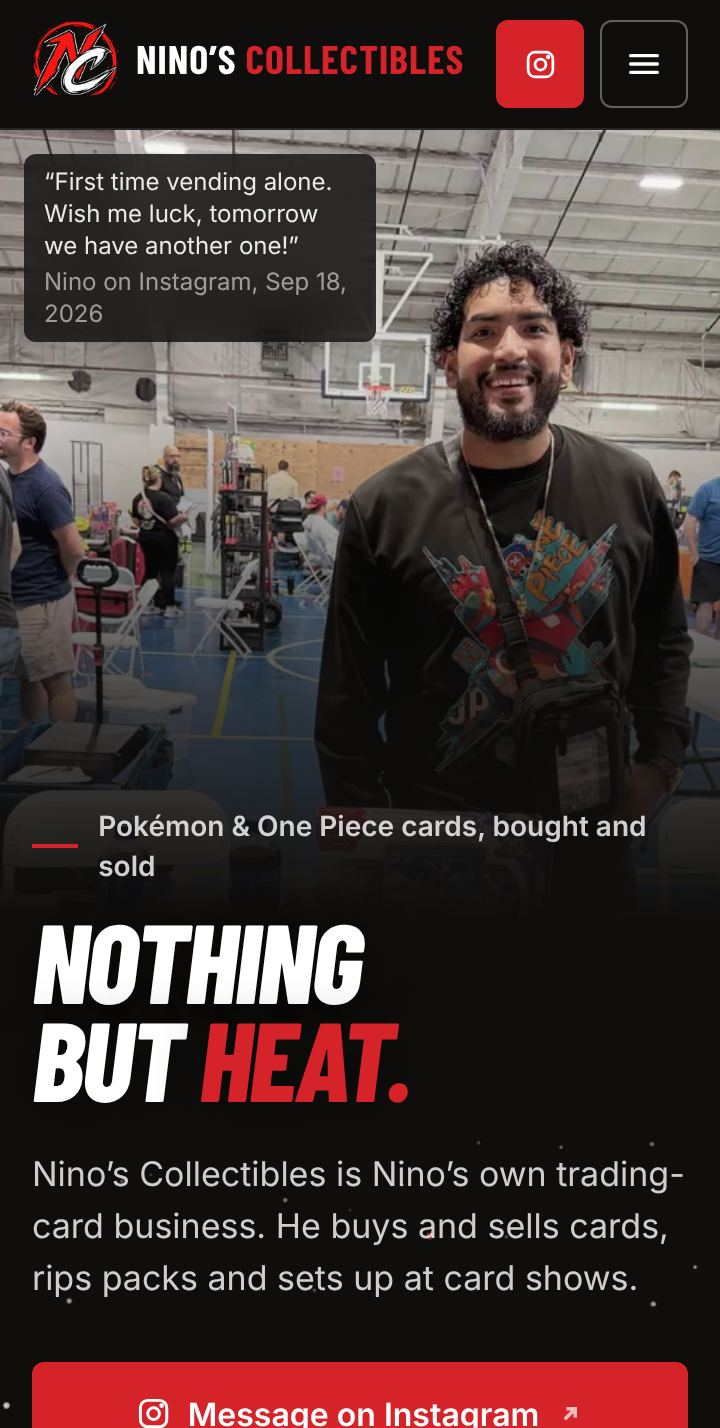
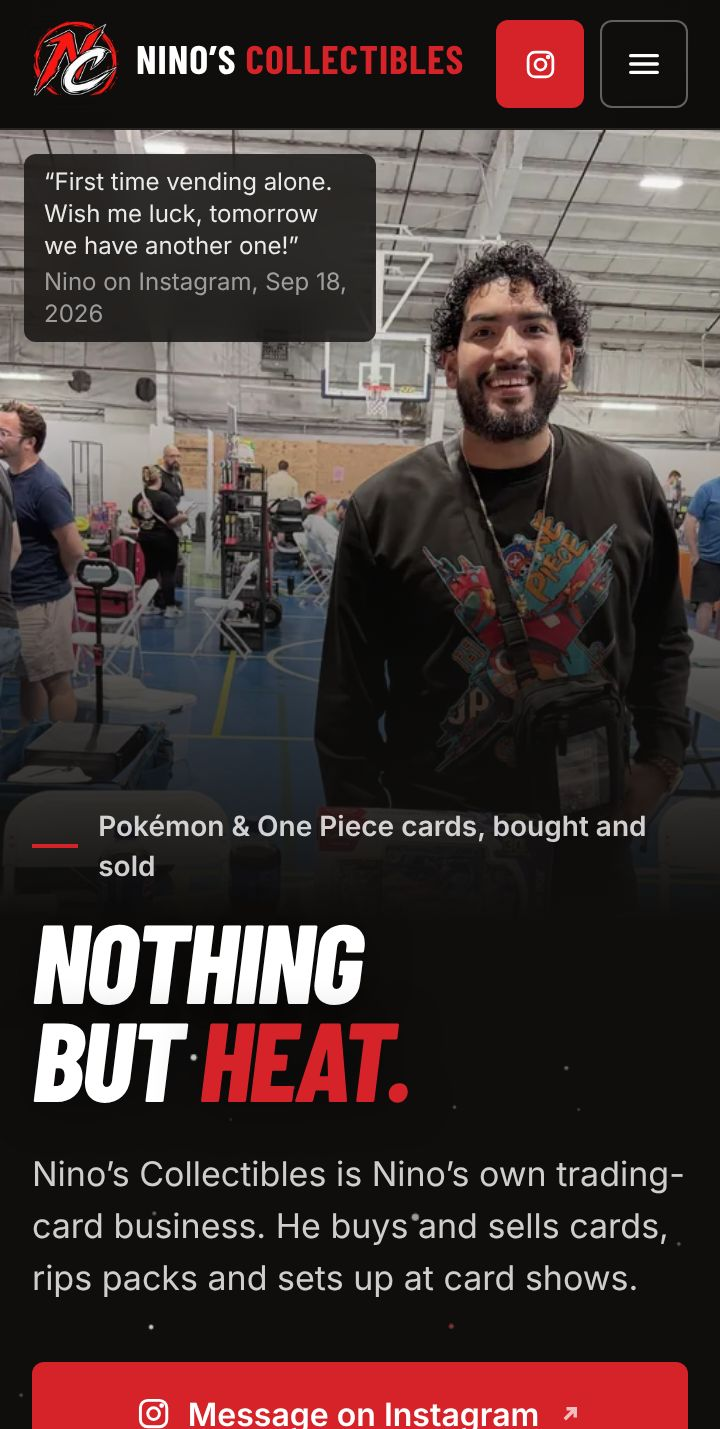
Add Nino's Collectibles as a sixth live client
Nino is now listed the same way as the other shops: phone rail, proof
deck, ledger, Card and tabletop filter and case study, with a fresh
720x1429 phone capture of ninoscollectibles.com. The separate "In
progress" block is removed.

The case study keeps its dated "Where it stands" lines, because live
pricing, Square and the show list are not yet working on his site.

Counts and copy move from five to six. /work joins CHANGED_SEO since its
description and JSON-LD now differ from the certified page. The rail
shares the row on desktop so six phones fit from 900px up.

Claude-Session: https://claude.ai/code/session_01N3ZjKZC4ZgSLS7pb9vG9zZ

diff --git a/nitro/src/lib/work.ts b/nitro/src/lib/work.ts
@@ -1,7 +1,9 @@
 /**
  * Approved portfolio taxonomy, from the certified site (work/index.html, generate-seo-pages.mjs,
  * homepage filters):
- *   - Five live client projects. Filters: "Card and tabletop" (4) and "Retail and local" (1).
+ *   - Six live client projects. Filters: "Card and tabletop" (5) and "Retail and local" (1). Nino’s Collectibles
+ *     was added 2026-10-11 with Nino’s approval (reported by Nick); its case study carries dated status lines
+ *     because parts of that site (live pricing, Square, show list) are not yet working in production.
  *   - One FORGE lab experiment (Voidcaller), always shown apart from client work and never counted as a client.
  * Case-study copy is limited to the documented need, build, tags and location. No outcomes or metrics.
  */
@@ -33,8 +35,7 @@ export type Project = {
   designIntent?: string;
   customerPath?: string[];
   tags: string[];
-  /** In-progress engagements only: stage label, robots override, dated status lines and a second screenshot. */
-  stage?: string;
+  /** Optional: robots override, dated status lines and a second screenshot. */
   robots?: string;
   statusCheckedOn?: string;
   status?: string[];
@@ -148,42 +149,22 @@ export const PROJECTS: Project[] = [
       "Watertown comic shop on Main Street. New comics on Wednesday, collectibles on the floor whenever the door is open — a page built so a walk-in can find the shop.",
     tags: ["Comics", "Collectibles", "Main Street"],
   },
-];
-
-export const LAB = {
-  name: "Voidcaller — On-chain metalcore",
-  kind: "FORGE experiment · Music and interactive",
-  image: "/images/work/voidcaller.jpg",
-  site: "https://voidcaller.enterthegrotto.xyz/",
-  story:
-    "A world that matches the record: player, relics, and lore. Built to prove that a project can go further when the experience itself is part of the brief.",
-  tags: ["Interactive", "Custom player", "Worldbuilding"],
-} as const;
-
-/**
- * Engagements in progress: real work for a real business that is not an approved live client launch.
- * Kept out of PROJECTS so the five-client taxonomy, counts, filters and homepage rail stay as certified.
- * Each line below was checked against the client repo and the live site on statusCheckedOn; re-check before
- * changing it. Nino approved being shown on forge-ct.com (reported by Nick, 2026-10-11).
- */
-export const IN_PROGRESS: Project[] = [
   {
     slug: "ninos-collectibles",
     name: "Nino’s Collectibles",
     short: "Nino’s Collectibles",
     filter: "card-tabletop",
-    stage: "In progress",
     category: "Trading-card dealer",
-    place: "Card shows and Instagram",
+    place: "Card shows",
     image: "/images/work/ninoscollectibles.jpg",
-    imageHeight: 1428,
+    imageHeight: 1429,
     site: "https://ninoscollectibles.com/",
     siteLabel: "ninoscollectibles.com",
     need: "Nino buys and sells Pokémon and One Piece cards at card shows, on Instagram and in Whatnot live shows. Buyers need to see what he deals in and where he is vending next; sellers need a first look at what a card might fetch before they meet him.",
     built:
       "A phone-first site built from Nino’s own Instagram posts, with a show list read from his OnTreasure profile and a card scanner for people selling to him.",
     story:
-      "A site built from Nino’s own Instagram posts, a show list read from OnTreasure, and a card scanner for sellers. Live as a concept preview.",
+      "Nino’s own Instagram posts, a show list read from his OnTreasure profile, and a card scanner for people selling to him — built for buyers and sellers who meet him at card shows.",
     designIntent:
       "Keep every claim traceable. Photos and captions come from Nino’s public posts with their dates, and past pulls are labelled as not a stock list. Show dates are read from OnTreasure, never typed in. The scanner never fills in a price, a condition or a grade: it shows an estimate only from a dated market price, the customer picks the condition, and the final offer is made in person.",
     customerPath: [
@@ -208,5 +189,15 @@ export const IN_PROGRESS: Project[] = [
   },
 ];
 
-export const projectBySlug = (slug: string) => [...PROJECTS, ...IN_PROGRESS].find((p) => p.slug === slug);
+export const LAB = {
+  name: "Voidcaller — On-chain metalcore",
+  kind: "FORGE experiment · Music and interactive",
+  image: "/images/work/voidcaller.jpg",
+  site: "https://voidcaller.enterthegrotto.xyz/",
+  story:
+    "A world that matches the record: player, relics, and lore. Built to prove that a project can go further when the experience itself is part of the brief.",
+  tags: ["Interactive", "Custom player", "Worldbuilding"],
+} as const;
+
+export const projectBySlug = (slug: string) => PROJECTS.find((p) => p.slug === slug);
 export const filterCount = (f: Filter) => PROJECTS.filter((p) => p.filter === f).length;

diff --git a/nitro/tests/critical-flows.spec.ts b/nitro/tests/critical-flows.spec.ts
@@ -165,36 +165,27 @@ test.describe("certified business-critical flows", () => {
 });
 
 test.describe("approved portfolio taxonomy", () => {
-  test("ledger lists the five live clients, filters 4 + 1, and keeps the lab apart", async ({ page }) => {
+  test("ledger lists the six live clients, filters 5 + 1, and keeps the lab apart", async ({ page }) => {
     await page.goto("/work");
     const rows = page.locator("table.ledger tbody tr");
-    await expect(rows).toHaveCount(5);
+    await expect(rows).toHaveCount(6);
     await expect(page.getByRole("button", { name: /^All/ })).toHaveAttribute("aria-pressed", "true");
     await page.getByRole("button", { name: /Card and tabletop/ }).click();
-    await expect(page.locator("table.ledger tbody tr:visible")).toHaveCount(4);
+    await expect(page.locator("table.ledger tbody tr:visible")).toHaveCount(5);
     await page.getByRole("button", { name: /Retail and local/ }).click();
     await expect(page.locator("table.ledger tbody tr:visible")).toHaveCount(1);
     await expect(page.locator("table.ledger tbody tr:visible")).toContainText("Harris in Wonderland");
     await expect(page.locator("table.ledger")).not.toContainText("Voidcaller");
     await expect(page.locator(".lab")).toContainText("not client work");
-    await expect(page.locator("table.ledger")).not.toContainText("Nino");
   });
 
-  test("the homepage shows the in-progress engagement apart from the live clients", async ({ page }) => {
+  test("Nino’s Collectibles appears like the other clients: rail, proof deck, ledger and case study", async ({ page }) => {
     await page.goto("/");
-    const wip = page.locator("#work .wip");
-    await expect(wip).toContainText("Nino’s Collectibles");
-    await expect(wip).toContainText("not counted as a live client launch");
-    await expect(page.locator("#work table.ledger tbody tr")).toHaveCount(5);
-    await expect(page.locator("#work table.ledger")).not.toContainText("Nino");
-  });
-
-  test("in-progress engagements sit apart from live clients", async ({ page }) => {
+    await expect(page.locator(".rail")).toContainText("Nino’s Collectibles");
+    await expect(page.locator("#work .proof-deck")).toContainText("Nino’s Collectibles");
+    await expect(page.locator("#work table.ledger tbody tr")).toHaveCount(6);
     await page.goto("/work");
-    const wip = page.locator(".wip");
-    await expect(wip).toContainText("Nino’s Collectibles");
-    await expect(wip).toContainText("not counted as a live client launch");
-    await wip.getByRole("link", { name: "Case study" }).click();
+    await page.locator("table.ledger").getByRole("link", { name: "Nino’s Collectibles" }).click();
     await expect(page).toHaveURL(/\/work\/ninos-collectibles$/);
     await expect(page.locator("h1")).toHaveText("Nino’s Collectibles");
     await expect(page.locator('meta[name="robots"]')).toHaveAttribute("content", "index,follow");
@@ -202,7 +193,6 @@ test.describe("approved portfolio taxonomy", () => {
       "href",
       "https://ninoscollectibles.com/",
     );
-    await expect(page.locator(".facts")).toContainText("Where it stands");
     await expect(page.locator(".facts")).toContainText("Checked 11 October 2026");
     await page.reload();
     await expect(page.locator("h1")).toHaveText("Nino’s Collectibles");
@@ -216,7 +206,6 @@ test.describe("approved portfolio taxonomy", () => {
       "https://infiniteheroes.net/",
       "https://harrisinwonderland.com/",
       "https://voidcaller.enterthegrotto.xyz/",
-      // In-progress engagement, linked from its own case study and the In progress block, never as a live client.
       "https://ninoscollectibles.com/",
     ]);
     for (const path of ROUTES) {

diff --git a/nitro/src/components/work.tsx b/nitro/src/components/work.tsx
@@ -1,7 +1,7 @@
 import { Link } from "@tanstack/react-router";
 import { useState } from "react";
 import { Arrow } from "@/components/chrome";
-import { FILTERS, IN_PROGRESS, LAB, PROJECTS, filterCount, type Filter, type Project } from "@/lib/work";
+import { FILTERS, LAB, PROJECTS, filterCount, type Filter, type Project } from "@/lib/work";
 
 export function PhoneFrame({ project, eager = false }: { project: Project; eager?: boolean }) {
   return (
@@ -25,6 +25,7 @@ const EMPHASIS: Record<string, string> = {
   "m-and-j-video-games": "Walk-in",
   "hard-hittin": "Launch",
   "infinite-heroes": "Main Street",
+  "ninos-collectibles": "Dealer",
 };
 
 /**
@@ -81,7 +82,7 @@ export function ProofDeck() {
   );
 }
 
-/** The five live client sites, as they look on the phone a customer is holding. */
+/** The live client sites, as they look on the phone a customer is holding. */
 export function PhoneRail() {
   return (
     <div className="rail-wrap">
@@ -219,42 +220,3 @@ export function LabNote() {
   );
 }
 
-/** Engagements in progress, kept apart from the approved live client work and never counted with it. */
-export function InProgressNote() {
-  if (IN_PROGRESS.length === 0) return null;
-  return (
-    <section className="wip" aria-labelledby="wip-title">
-      <h3 id="wip-title" className="index-label">
-        In progress
-      </h3>
-      {IN_PROGRESS.map((p) => (
-        <article className="wip-item" key={p.slug}>
-          <Link to="/work/$slug" params={{ slug: p.slug }} data-track={`wip_${p.slug}`}>
-            <img src={p.image} alt={`${p.name} website`} width={120} height={238} loading="lazy" decoding="async" />
-          </Link>
-          <div className="stack">
-            <p className="mono muted">
-              {p.stage} · {p.category} · not counted as a live client launch
-            </p>
-            <h4>
-              <Link to="/work/$slug" params={{ slug: p.slug }}>
-                {p.name}
-              </Link>
-            </h4>
-            <p className="muted">{p.story}</p>
-            <div className="actions">
-              <Link className="btn btn--line" to="/work/$slug" params={{ slug: p.slug }}>
-                Case study <Arrow />
-              </Link>
-              {p.site ? (
-                <a className="link" href={p.site} target="_blank" rel="noopener noreferrer" data-track={`wip_live_${p.slug}`}>
-                  Visit {p.siteLabel} <Arrow dir="out" />
-                </a>
-              ) : null}
-            </div>
-          </div>
-        </article>
-      ))}
-    </section>
-  );
-}

diff --git a/nitro/src/routes/index.tsx b/nitro/src/routes/index.tsx
@@ -3,7 +3,7 @@ import { Arrow, Plate } from "@/components/chrome";
 import { ClientNotes } from "@/components/client-notes";
 import { NextSteps } from "@/components/next-steps";
 import { PackageChooser, RateSheet, SheetNotes } from "@/components/rate-sheet";
-import { InProgressNote, LabNote, Ledger, PhoneRail, ProofDeck } from "@/components/work";
+import { LabNote, Ledger, PhoneRail, ProofDeck } from "@/components/work";
 import { pageHead } from "@/lib/seo";
 import { BUSINESS, CARE, PACKAGES, usd } from "@/lib/site";
 import { PROJECTS } from "@/lib/work";
@@ -166,14 +166,13 @@ function Home() {
           <div className="split">
             <h2 id="work-title">Real businesses. Real reasons to build.</h2>
             <p className="lede">
-              Five live client sites. The screenshot is the proof. The line under it is the documented need and the build —
+              Six live client sites. The screenshot is the proof. The line under it is the documented need and the build —
               not a result we did not measure.
             </p>
           </div>
           <ProofDeck />
           <h3 className="index-label">Index</h3>
           <Ledger headingId="work-title" />
-          <InProgressNote />
           <LabNote />
         </div>
       </section>

diff --git a/nitro/src/routes/work/index.tsx b/nitro/src/routes/work/index.tsx
@@ -1,7 +1,7 @@
 import { createFileRoute, Link } from "@tanstack/react-router";
 import { Arrow, PageHead } from "@/components/chrome";
 import { NextSteps } from "@/components/next-steps";
-import { InProgressNote, LabNote, Ledger, ProofDeck } from "@/components/work";
+import { LabNote, Ledger, ProofDeck } from "@/components/work";
 import { pageHead } from "@/lib/seo";
 import { PROJECTS } from "@/lib/work";
 
@@ -15,7 +15,7 @@ function WorkIndex() {
     <main id="main">
       <PageHead plate={["Forge CT portfolio", "Live client work", "Connecticut"]} title="Real businesses. Real reasons to build.">
         <p className="lede">
-          These are the {PROJECTS.length === 5 ? "five" : PROJECTS.length} approved Forge CT live client projects for shops and
+          These are the {PROJECTS.length === 6 ? "six" : PROJECTS.length} approved Forge CT live client projects for shops and
           local businesses. Each case study records the documented need and build, without claims that are not
           established.
         </p>
@@ -35,7 +35,6 @@ function WorkIndex() {
           <ProofDeck />
           <h3 className="index-label">Index</h3>
           <Ledger headingId="ledger-title" />
-          <InProgressNote />
           <LabNote />
         </div>
       </section>

diff --git a/nitro/src/styles.css b/nitro/src/styles.css
@@ -585,8 +585,9 @@ p {
   }
 }
 @media (min-width: 900px) {
-  /* All five phones the same size and level; captions top-aligned under them. */
+  /* All phones the same size and level, sharing the row so none falls off the edge; captions top-aligned under them. */
   .rail {
+    grid-auto-columns: minmax(0, 1fr);
     overflow: visible;
     align-items: start;
   }
@@ -897,35 +898,6 @@ p {
   width: 120px;
   border: 5px solid var(--steel-2);
   border-radius: 18px;
-}
-.wip-item {
-  display: grid;
-  gap: 1.5rem;
-  margin-top: 1rem;
-  padding: clamp(20px, 3vw, 32px);
-  border: 1.5px dashed var(--rule-strong);
-}
-@media (min-width: 760px) {
-  .wip-item {
-    grid-template-columns: 120px 1fr;
-    align-items: start;
-  }
-}
-.wip-item img {
-  width: 120px;
-  border: 5px solid var(--steel-2);
-  border-radius: 18px;
-}
-.wip-item h4 {
-  margin: 0;
-  font-family: var(--display);
-  font-size: 1.2rem;
-  font-weight: 600;
-  letter-spacing: -0.02em;
-  line-height: 1.2;
-}
-.wip-item .actions {
-  align-items: center;
 }
 
 /* ---------- rate sheet ---------- */

diff --git a/nitro/src/lib/structured-data.ts b/nitro/src/lib/structured-data.ts
@@ -964,7 +964,7 @@ export const STRUCTURED_DATA: Record<string, unknown[]> = {
       "@id": "https://www.forge-ct.com/work#webpage",
       "url": "https://www.forge-ct.com/work",
       "name": "Forge CT live client projects",
-      "description": "All five approved Forge CT live client projects for local shops and businesses.",
+      "description": "All six approved Forge CT live client projects for local shops and businesses.",
       "isPartOf": {
         "@id": "https://www.forge-ct.com/#business"
       },
@@ -993,6 +993,11 @@ export const STRUCTURED_DATA: Record<string, unknown[]> = {
           "@type": "CreativeWork",
           "name": "Infinite Heroes",
           "url": "https://www.forge-ct.com/work/infinite-heroes"
+        },
+        {
+          "@type": "CreativeWork",
+          "name": "Nino’s Collectibles",
+          "url": "https://www.forge-ct.com/work/ninos-collectibles"
         }
       ]
     }

diff --git a/nitro/src/routes/why.tsx b/nitro/src/routes/why.tsx
@@ -26,7 +26,7 @@ const FAQ: { q: string; a: React.ReactNode }[] = [
         Yes. These three featured live client shops are open right now:{" "}
         <a className="link" href="https://www.thousandsunnytcg.com/" target="_blank" rel="noopener noreferrer">Thousand Sunny</a>,{" "}
         <a className="link" href="https://mjvideogames.com/" target="_blank" rel="noopener noreferrer">M and J</a>, and{" "}
-        <a className="link" href="https://hardhittincardshop.com/" target="_blank" rel="noopener noreferrer">Hard Hittin</a>. See all five
+        <a className="link" href="https://hardhittincardshop.com/" target="_blank" rel="noopener noreferrer">Hard Hittin</a>. See all six
         approved live client projects in the <Link className="link" to="/work">Forge portfolio</Link>.
       </>
     ),

diff --git a/nitro/src/routes/work/$slug.tsx b/nitro/src/routes/work/$slug.tsx
@@ -23,13 +23,11 @@ export const Route = createFileRoute("/work/$slug")({
 function CaseStudy() {
   const { slug } = Route.useLoaderData();
   const project = projectBySlug(slug)!;
-  // In-progress engagements are not in the approved rotation; they lead back into it at the start.
   const index = PROJECTS.indexOf(project);
   const next = PROJECTS[(index + 1) % PROJECTS.length];
-  const plate = ["Forge CT case study", ...(project.stage ? [project.stage] : []), project.category, project.place];
   return (
     <main id="main">
-      <PageHead plate={plate} title={project.name}>
+      <PageHead plate={["Forge CT case study", project.category, project.place]} title={project.name}>
         <p className="lede">{project.built}</p>
       </PageHead>
       <section className="band">

diff --git a/nitro/src/lib/seo.ts b/nitro/src/lib/seo.ts
@@ -99,7 +99,7 @@ export const META: Record<string, PageMeta> = {
   "/work": {
     title: "Work — Forge CT live client projects",
     description:
-      "All five approved Forge CT live client projects for card, tabletop, retail, and neighborhood businesses in Connecticut.",
+      "All six approved Forge CT live client projects for card, tabletop, retail, and neighborhood businesses in Connecticut.",
     ogImageAlt: CT_OG_ALT,
   },
 };

diff --git a/nitro/src/lib/site.ts b/nitro/src/lib/site.ts
@@ -1,7 +1,7 @@
 /**
  * FORGE CT business facts. Every value here is copied from the certified production site
  * (www.forge-ct.com, main @ f7ec08a). Do not add a fact that is not published there:
- * no years in business, no client counts beyond the approved five, no outcomes or metrics.
+ * no years in business, no client counts beyond the approved six, no outcomes or metrics.
  */
 export const SITE_URL = "https://www.forge-ct.com";
 
